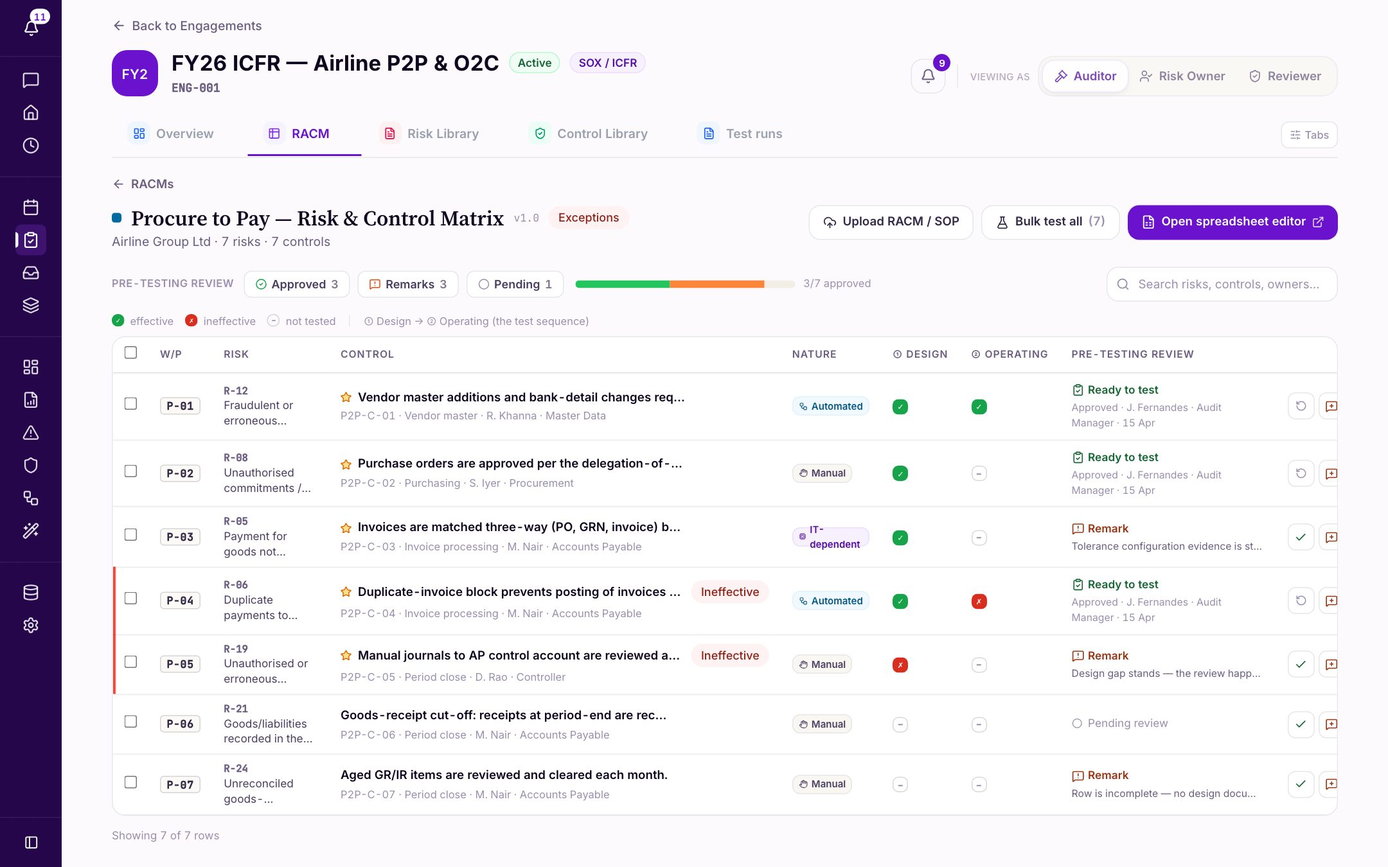
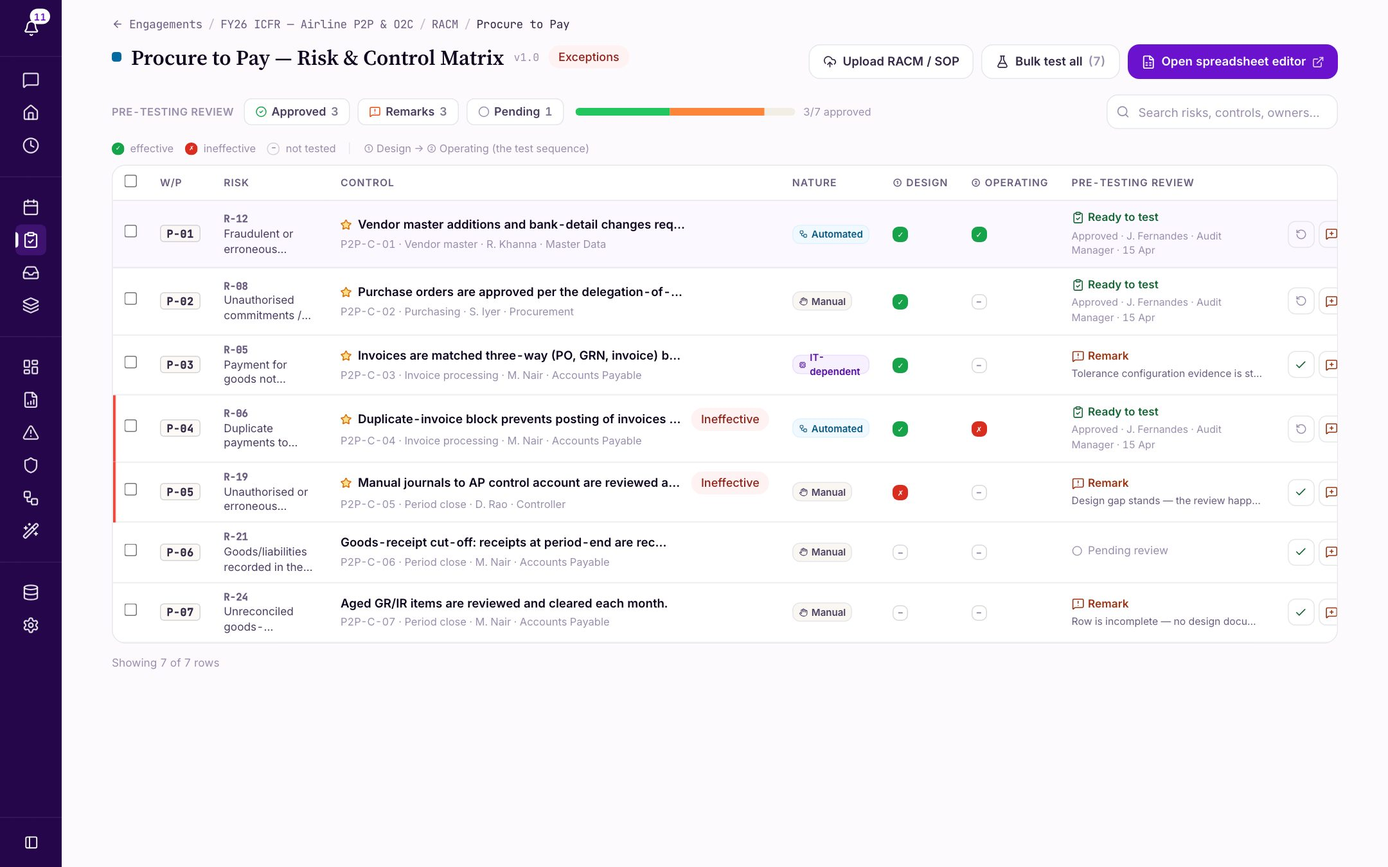
docs(PRD): document the engagement creation flow, add a Notion exporter
Work in progress from before the UI pass, committed as found.

§5.1 grows from "the portfolio" to cover creating an engagement: the four-step
drawer, what each step gates on, and the SOX-specific step 2 where the three
thresholds drive a live severity ladder. Two new captures back it (wizard steps
1 and 2); three existing shots refreshed against the current build.

notion-convert.mjs converts body.html to Notion-flavored Markdown. Text-only:
Notion needs public image URLs, which the local JPGs aren't, so screenshots and
flowcharts become linked references to the live artifact.

diff --git a/docs/prd-sox-icfr/body.html b/docs/prd-sox-icfr/body.html
@@ -6,7 +6,6 @@
     <div class="mid">
       <div class="badges"><span class="badge">Product Requirements Document</span><span class="badge">v1.1</span><span class="badge">Basis: BRD v1.0</span></div>
       <h1>SOX / ICFR Engagement Management</h1>
-      <p class="sub">From creating a SOX / ICFR engagement and setting materiality ground rules, to testing design &amp; operating effectiveness, to closing exceptions — the build specification for bringing this capability to the irame.ai audit platform. The feature does not exist in the product today; the working prototype demonstrates the target experience, and every screenshot is a live capture of it. Anything the prototype adds beyond the BRD is highlighted in amber.</p>
     </div>
   </div>
 
@@ -41,7 +40,7 @@
       <a href="#s3"><span>3 — Use cases</span><span class="n">§3</span></a>
       <a href="#s4"><span>4 — User journey</span><span class="n">§4</span></a>
       <a href="#s51"><span>5 — The end-to-end journey (live screens)</span><span class="n">§5</span></a>
-      <a class="sub" href="#s51"><span>5.1 Engagement Library — the portfolio</span><span class="n">§5.1</span></a>
+      <a class="sub" href="#s51"><span>5.1 Engagement Library — portfolio &amp; the creation flow</span><span class="n">§5.1</span></a>
       <a class="sub" href="#s52"><span>5.2 SOX workspace — Overview &amp; sign-off</span><span class="n">§5.2</span></a>
       <a class="sub" href="#s53"><span>5.3 The To-do bell</span><span class="n">§5.3</span></a>
       <a class="sub" href="#s54"><span>5.4 RACM — pre-testing review</span><span class="n">§5.4</span></a>
@@ -261,7 +260,7 @@
   <!-- ═════════ 5.1 ═════════ -->
   <section class="page" id="s51">
     <p class="eyebrow">Section 5 · The end-to-end journey</p>
-    <h2 class="serif">5.1 — Engagement Library: the portfolio</h2>
+    <h2 class="serif">5.1 — Engagement Library: the portfolio &amp; creating an engagement</h2>
     <p class="lede">SOX / ICFR engagements live in the same library as everything else — filter the list by type and the three ICFR engagements appear with their health and open findings.</p>
     <div class="shot"><div class="chrome"><i></i><i></i><i></i><span>Engagements → Engagement Library → All Engagements (filtered to SOX / ICFR)</span></div><img src="@@IMG:00-engagement-library@@" alt="Engagement Library filtered to SOX / ICFR showing three engagements with health bars and open findings" /></div>
     <p class="caption">Engagement Library — the SOX / ICFR filter shows FY26 ICFR (75% effective, 3 open), O2C (89%), and a planned R2R engagement.</p>
@@ -270,7 +269,23 @@
       <ol>
         <li><b>One portfolio</b> — SOX engagements list beside Compliance, Internal Audit and Automation, each with a health bar (controls effective) and open-findings count.</li>
         <li><b>Type filter</b> — the "SOX / ICFR" filter narrows the list; each card carries code, owner, period, process and framework tags.</li>
-        <li><b>Entry</b> — clicking a card opens that engagement's SOX workspace (§5.2). New Engagement opens the typed creation flow the BRD describes (§3.1–3.3 there): pick SOX / ICFR → identity &amp; period → the materiality ground rules with a live severity ladder → team → review.</li>
+        <li><b>Entry</b> — clicking a card opens that engagement's SOX workspace (§5.2); <i>New Engagement</i> opens the four-step creation flow below.</li>
+      </ol>
+    </div>
+
+    <h3>Creating a SOX engagement — the four-step flow</h3>
+    <p><i>New Engagement</i> opens a drawer over the library — the same flow for every engagement type, which is the BRD's point: SOX is created like everything else, not in a separate tool. Step 2 changes shape with the chosen type; for SOX / ICFR it is the materiality ground rules. The progress bar is clickable backwards; a step ahead stays locked until the current one passes its checks.</p>
+    <div class="shot"><div class="chrome"><i></i><i></i><i></i><span>Engagement Library → New Engagement → Step 1 · Type &amp; basics</span></div><img src="@@IMG:19-wizard-step1@@" alt="Create Engagement drawer, step 1 — SOX / ICFR type tile selected with a check, engagement name, auto-generated code, entity, process P2P, period start and end date pickers" /></div>
+    <p class="caption">Step 1 — Type &amp; basics: pick <b>SOX / ICFR</b>, name the engagement, set entity, process and period. Next stays off until type, name, code and a valid period (end after start) are in.</p>
+    <div class="shot"><div class="chrome"><i></i><i></i><i></i><span>New Engagement → Step 2 · Scope (SOX / ICFR)</span></div><img src="@@IMG:20-wizard-step2@@" alt="Create Engagement drawer, step 2 — SOX scoping and materiality: fixed COSO 2013 / SOX 404(b) framework, key-controls-only toggle, overall materiality, performance materiality and clearly-trivial percentages with computed amounts, and the exception severity ladder computed live beneath" /></div>
+    <p class="caption">Step 2 — Scope: the three thresholds, with the severity ladder <b>computed live</b> beneath as the numbers change — the same ladder that will grade every exception in testing (§5.12, §6).</p>
+    <div class="callout">
+      <span class="c-label">The four steps &amp; their gates</span>
+      <ol>
+        <li><b>Type &amp; basics</b> — engagement type · name · auto-generated code (editable if the team uses its own scheme) · entity · process · period · owner. Gate: type, name and code present; period end after start.</li>
+        <li><b>Scope (SOX / ICFR)</b> — the framework is fixed to COSO 2013 / SOX 404(b); a <b>key-controls-only</b> toggle (default on); overall materiality, with performance materiality and clearly-trivial as % of overall (defaults 75% / 5%; the significant-deficiency band sits at 20%). These are set once here and <b>sealed</b> — changing them later goes through the reasoned, previewed edit of §5.12. <b>Draft with AI</b> can prefill the step from an uploaded engagement letter or prior-year scope; the result is banner-flagged "Drafted by AI — review before continuing".</li>
+        <li><b>Team &amp; timeline</b> — reviewer (required, and <b>must differ from the owner</b> — four-eyes starts at creation), auditors, risk owners; 2–4 dated milestones prefilled from the period (Kickoff · Fieldwork complete · Sign-off) that feed the portfolio timeline.</li>
+        <li><b>Review</b> — everything read back in collapsible sections. <b>Create as Draft</b> parks it in the library; <b>Create &amp; Activate</b> opens it live. Either way, the full configuration is carried onto the engagement.</li>
       </ol>
     </div>
     <div class="callout delta"><span class="c-label">Deviations from the BRD in the creation flow</span>
@@ -330,7 +345,7 @@
     <p class="lede">The Risk &amp; Control Matrix is where the auditor reviews each documented control <b>before testing begins</b> — approving a row means "the control as documented is ready to test", never a testing result.</p>
     <div class="shot"><div class="chrome"><i></i><i></i><i></i><span>SOX workspace → RACM (landing)</span></div><img src="@@IMG:05-racm-landing@@" alt="RACM landing with one card per process showing approval progress and a spreadsheet editor button" /></div>
     <p class="caption">RACM landing — one card per process with its approval progress; "Spreadsheet editor" opens the full matrix in a new tab (marked with an external-link icon).</p>
-    <div class="shot"><div class="chrome"><i></i><i></i><i></i><span>RACM → Procure to Pay (matrix)</span></div><img src="@@IMG:06-racm-matrix@@" alt="RACM matrix with risk and control rows, design and operating tickmarks with a legend, ready-to-test review states and per-row remark actions" /></div>
+    <div class="shot"><div class="chrome"><i></i><i></i><i></i><span>RACM → Procure to Pay (standalone matrix — breadcrumb, no engagement shell)</span></div><img src="@@IMG:06-racm-matrix@@" alt="Standalone RACM matrix page with a breadcrumb trail, risk and control rows, design and operating tickmarks with a legend, ready-to-test review states and per-row remark actions" /></div>
     <p class="caption">The matrix — risk ↔ control rows with a tickmark legend (✓ effective · ✗ ineffective · – not tested) and the ①② test sequence explained inline.</p>
     <div class="callout">
       <span class="c-label">Behaviour &amp; rules</span>
@@ -338,6 +353,7 @@
         <li><b>Row anatomy</b> — risk (with description on hover) · control (ID · sub-process · owner) · ① Design and ② Operating tickmarks · the pre-testing review state.</li>
         <li><b>Review states</b> — <span class="pill ok">Ready to test</span> (approved · by · when) or a <b>remark</b> sent to the risk owner to fix the documentation first. Only the auditor approves; only the auditor sees bulk actions.</li>
         <li><b>Wide by design</b> — the matrix scrolls horizontally rather than clipping; the spreadsheet editor offers the full-screen editing surface.</li>
+        <li><b>The drilled-in matrix stands alone</b> — opening a process leaves the engagement shell: no engagement header, no tabs; a breadcrumb (Engagements / engagement / RACM / process) carries the context and every step back up — the same pattern as the control page.</li>
       </ol>
     </div>
     <div class="callout delta"><span class="c-label">Beyond the BRD</span><p style="margin:0">The RACM tab is new. The BRD defines RACM only as a glossary term; the prototype gives it a surface — and a job: the pre-testing review ("ready to test") that catches documentation gaps before any testing effort is spent.</p></div>
@@ -354,12 +370,50 @@
     <div class="callout">
       <span class="c-label">Behaviour &amp; rules</span>
       <ol>
-        <li><b>Heatmaps filter</b> — clicking a cell filters the register to that Likelihood × Impact band; the filter pill reads in the same L × I order as the score badges.</li>
+        <li><b>Two filter layers</b> — the toolbar above the maps (search · process · status · an <i>Identified between</i> date window, bounded to the engagement period and defaulting to all of it) scopes <b>both heatmaps and the register together</b>; clicking a heatmap cell then narrows the register alone to that Likelihood × Impact, shown as a clearable chip. The count line stays honest: "Showing n of m risks".</li>
         <li><b>Register row</b> — risk ID · description (full text on hover) · process · inherent and residual scores · "↓ reduced by controls" where testing moved the number · controls as <i>effective / total</i> · status.</li>
         <li><b>Drill-through</b> — a risk opens its mapped controls; a control opens its page (§5.7).</li>
       </ol>
     </div>
-    <div class="callout delta"><span class="c-label">Beyond the BRD</span><p style="margin:0">The Risk Library tab is new — the BRD's journey has no risk view. It answers the question the register alone can't: how far has control testing actually pulled the risk exposure down?</p></div>
+    <p><b>The idea, in one line:</b> <b>inherent</b> is the risk's nature — how often it would bite and how hard <i>if no control existed at all</i> — so it never moves during the year. <b>Residual</b> is what remains after controls, and the product takes a deliberate stance on it: <b>a control that merely exists on paper earns nothing; only a control proven effective in testing moves the number.</b> That is why the two maps sit side by side — the left one never changes, the right one moves as testing progresses, and the gap between them is exactly what the testing effort has bought.</p>
+    <div class="callout">
+      <span class="c-label">How the scores work</span>
+      <ol>
+        <li><b>One row per risk</b> — every unique risk in the RACM becomes one register row, with the controls that answer it bundled onto it and the date it was <b>identified</b> on the row (this is what the date filter reads). The Risk Library has no data entry of its own; it reads the engagement.</li>
+        <li><b>A score is Likelihood × Impact</b> — each rated 1 to 5 (Rare → Almost certain, Minimal → Severe), so scores run 1–25. Every badge shows its working, e.g. <b>12</b> = L4 × I3.</li>
+        <li><b>Inherent is set with the engagement</b> — and a risk answered by a <b>key control</b> never rates below Moderate impact. <b>Residual starts equal to inherent</b>: a brand-new engagement shows two identical maps, and they separate only as test conclusions land — by the table below.</li>
+      </ol>
+    </div>
+
+    <p style="margin:0.9rem 0 0.35rem"><b>How residual moves.</b> Look at where the risk's mapped controls stand — that one fact fixes both the score movement and the status chip:</p>
+    <div class="table-scroll"><table>
+      <tr><th style="width:26%">Where the risk's controls stand</th><th style="width:26%">What residual does</th><th>Why</th><th style="width:13%">Status</th></tr>
+      <tr><td>Nothing tested yet</td><td>Stays exactly at inherent.</td><td>No evidence yet — no credit.</td><td><span class="pill neutral">Untested</span></td></tr>
+      <tr><td>Some testing done, nothing failed</td><td>Likelihood drops 1.</td><td>Partial credit for progress — the risk fires less often, but its size hasn't been earned down yet.</td><td><span class="pill info">In testing</span></td></tr>
+      <tr><td>Every mapped control concluded effective</td><td>Likelihood drops 2, impact drops 1 — never below 1.</td><td>The full reduction, with a floor: no score ever reaches zero — some residual always remains.</td><td><span class="pill ok">Mitigated</span></td></tr>
+      <tr><td><b>Any control ineffective</b> — an exception is open</td><td><b>No relief at all</b> — holds at inherent until the retest passes and the exception closes.</td><td>One failed control blocks the whole risk's relief, whatever the other controls did — the same "caps, never clears" stance as §6.</td><td><span class="pill mw">Exception</span></td></tr>
+    </table></div>
+
+    <div class="callout">
+      <span class="c-label">Worked example — one risk through the engagement</span>
+      <ol>
+        <li>R-04 enters the year at inherent <b>L4 × I4 = 16 — Critical</b>: a red cell on the left map, top of the register. Two controls answer it.</li>
+        <li>The first control concludes effective → residual <b>L3 × I4 = 12 — High</b>. Status: In testing.</li>
+        <li>The second concludes effective too → residual <b>L2 × I3 = 6 — Moderate</b>; the row now carries <i>"↓ reduced by controls"</i>. Status: Mitigated.</li>
+        <li>A later retest finds the second control failing → an exception opens and residual snaps <b>straight back to 16</b>. R-04 returns to the top of the register — and stays there until the retest passes and the exception closes.</li>
+      </ol>
+    </div>
+
+    <p style="margin:0.9rem 0 0.35rem"><b>What the colours mean.</b> One band scale colours both the score badges and the heatmap cells (a cell shows the count of risks sitting at exactly that Likelihood × Impact):</p>
+    <div class="table-scroll"><table>
+      <tr><th style="width:30%">Score (L × I)</th><th>Band</th></tr>
+      <tr><td>15 – 25</td><td><span class="pill mw">Critical</span></td></tr>
+      <tr><td>10 – 14</td><td><span class="pill sd">High</span></td></tr>
+      <tr><td>5 – 9</td><td><span class="pill warn">Moderate</span></td></tr>
+      <tr><td>1 – 4</td><td><span class="pill ok">Low</span></td></tr>
+    </table></div>
+    <p>The register sorts by residual score, highest first — the top of the list is always what still hurts.</p>
+    <div class="callout delta"><span class="c-label">Beyond the BRD</span><p style="margin:0">The Risk Library tab is new — the BRD's journey has no risk view. It answers the question the register alone can't: how far has control testing actually pulled the risk exposure down?</p><p style="margin:0.4rem 0 0">One honest prototype note: the <b>inherent</b> ratings and the <b>identified</b> dates are seeded with the engagement's demo data — there is no assessment-entry screen yet. In production both come from the risk assessment on the RACM. The residual movement rules above are the specification either way.</p></div>
     <div class="pagefoot"><span>irame.ai — SOX / ICFR Engagement Management</span><span>§5.5</span></div>
   </section>
 
@@ -659,27 +713,28 @@
   <section class="page" id="s9">
     <p class="eyebrow">Section 9</p>
     <h2 class="serif">Functional requirements &amp; acceptance criteria</h2>
-    <p class="lede" style="font-size:0.8125rem">The <b>Basis</b> column traces each requirement to the BRD's own FR list — anything marked <span class="pill warn">Beyond BRD</span> is a prototype addition needing its own approval.</p>
+    <p class="lede" style="font-size:0.8125rem">The <b>Status</b> column shows where each requirement stands today: <span class="pill ok">Built</span> — working end-to-end in the prototype — or <span class="pill neutral">Planned</span> — specified here, to be built.</p>
     <div class="table-scroll"><table>
-      <tr><th style="width:8%">ID</th><th style="width:38%">Requirement</th><th>Acceptance criteria</th><th style="width:13%">Basis</th></tr>
-      <tr><td>FR-1</td><td>SOX / ICFR is a selectable engagement type; engagements list in the shared portfolio.</td><td>Type tile in creation; SOX engagements appear with health % and open findings; multiple SOX engagements coexist with fully separate state.</td><td><span class="pill neutral">BRD FR-1,2,4</span></td></tr>
-      <tr><td>FR-2</td><td>Creation captures identity, period, scope and materiality with validation gates.</td><td>Next gated per step; materiality &gt; 0, performance ∈ (0,100], CTT ∈ [0,100); reviewer required and ≠ owner; ≥ 2 dated milestones. Four steps; no audit-committee step.</td><td><span class="pill neutral">BRD FR-3</span> <span class="pill warn">deviates</span></td></tr>
-      <tr><td>FR-3</td><td>The workspace header matches the platform engagement pages.</td><td>Back to Engagements · initials tile · name · Active/Concluded pill · SOX/ICFR pill · code; tabs beneath; header and role switch absent inside a control page.</td><td><span class="pill warn">Beyond BRD</span></td></tr>
-      <tr><td>FR-4</td><td>Overview folds the year-end checklist and engagement sign-off into one box.</td><td>One row per outstanding item, each deep-linking; the sign-off block is the final step; the open-exceptions count appears exactly once; concluded state shows the signed summary.</td><td><span class="pill warn">Beyond BRD</span></td></tr>
-      <tr><td>FR-5</td><td>Engagement sign-off is gated, honest, and two-person.</td><td>Locked until every control is concluded and countersigned; preparer first, reviewer concludes; attest confirms on both; open MW flips the wording to "not effective" — never blocks.</td><td><span class="pill warn">Beyond BRD</span></td></tr>
-      <tr><td>FR-6</td><td>The Control Library reads as a KPI rail + register.</td><td>Five tiles (owner persona re-worded); honest Status filter labels; cards/table with per-track status and court; "Showing n of m".</td><td><span class="pill neutral">BRD FR-5</span> <span class="pill warn">+ rail</span></td></tr>
-      <tr><td>FR-7</td><td>Test of Design gates Operating Effectiveness.</td><td>② locked with the reason until ① concludes effective; documents tracked per provider; considerations validated per row; overrides demand recorded rationale.</td><td><span class="pill neutral">BRD FR-6</span></td></tr>
-      <tr><td>FR-8</td><td>IPE validation gates sampling.</td><td>Draw disabled until the three-check attestation (completeness · accuracy · parameters) is stamped with name + time; the trail records it.</td><td><span class="pill warn">Beyond BRD</span></td></tr>
-      <tr><td>FR-9</td><td>Per-attribute evidence with a named conclusion of record.</td><td>AI validation / mapped workflow / self-attestation per attribute; the attribute names its conclusion; disagreeing stale verdicts read "superseded"; sample status is a compact count.</td><td><span class="pill neutral">BRD FR-7</span> <span class="pill warn">+ record</span></td></tr>
-      <tr><td>FR-10</td><td>Failure handling is never silent.</td><td>A failed attribute prompts extend-the-sample; ineffective conclusions raise exceptions sized on the ladder; failed ITGC invalidates test-of-one.</td><td><span class="pill warn">Beyond BRD</span></td></tr>
-      <tr><td>FR-11</td><td>The working paper preview equals the export, and carries the per-paper sign-off.</td><td>Blocks and order identical; dates identical on screen and in file; sign/countersign attest-confirmed; person-based four-eyes; open notes block countersign with the reason.</td><td><span class="pill neutral">BRD FR-10</span> <span class="pill warn">+ sign-off</span></td></tr>
-      <tr><td>FR-12</td><td>Review notes cycle.</td><td>Reviewer raises; auditor resolves with a response; reviewer verifies &amp; closes or reopens; open notes block the paper's countersign.</td><td><span class="pill warn">Beyond BRD</span></td></tr>
-      <tr><td>FR-13</td><td>Exception lifecycle with live severity and four-eyes close.</td><td>Five stages incl. Awaiting reviewer; evidence-gated retest submission; reviewer close attest-confirmed and person-checked; reopen with reason returns to Remediation.</td><td><span class="pill neutral">BRD FR-9</span> <span class="pill warn">+ stage 5</span></td></tr>
-      <tr><td>FR-14</td><td>Ground rules are sealed.</td><td>Threshold edits: draft → reason → regrade preview → visible history; MW indicators force MW; compensating caps, never clears.</td><td><span class="pill neutral">BRD FR-8</span> <span class="pill warn">+ sealing</span></td></tr>
-      <tr><td>FR-15</td><td>The To-do bell is a per-persona live worklist.</td><td>Items recompute from state; each row = event + next step; owner wording says attest &amp; evidence; count badge on the bell.</td><td><span class="pill warn">Beyond BRD</span></td></tr>
-      <tr><td>FR-16</td><td>Role views are scoped surfaces, not hidden buttons.</td><td>Owner: two tabs, person-scoped lists, no engagement-wide data; Reviewer: the four-queue desk; persona fixed inside a control page.</td><td><span class="pill neutral">BRD FR-11</span> <span class="pill warn">+ portals</span></td></tr>
-      <tr><td>FR-17</td><td>Test runs log every execution.</td><td>Bulk/control/workflow/AI runs with actor + hat + time; Type + date filters with a matched count.</td><td><span class="pill warn">Beyond BRD</span></td></tr>
-      <tr><td>FR-18</td><td>Roll-forward and working-paper export.</td><td>Roll-forward confirm explains the one-way reset (design carries; manual/IT-dependent operating resets; automated keeps); Excel export at engagement and control level.</td><td><span class="pill neutral">BRD FR-12</span></td></tr>
+      <tr><th style="width:8%">ID</th><th style="width:38%">Requirement</th><th>Acceptance criteria</th><th style="width:11%">Status</th></tr>
+      <tr><td>FR-1</td><td>SOX / ICFR is a selectable engagement type; engagements list in the shared portfolio.</td><td>Type tile in creation; SOX engagements appear with health % and open findings; multiple SOX engagements coexist with fully separate state.</td><td><span class="pill ok">Built</span></td></tr>
+      <tr><td>FR-2</td><td>Creation captures identity, period, scope and materiality with validation gates.</td><td>Next gated per step; materiality &gt; 0, performance ∈ (0,100], CTT ∈ [0,100); the severity ladder previews live from the thresholds; reviewer required and ≠ owner; ≥ 2 dated milestones; Create as Draft or Create &amp; Activate. Four steps; no audit-committee step.</td><td><span class="pill ok">Built</span></td></tr>
+      <tr><td>FR-3</td><td>The workspace header matches the platform engagement pages.</td><td>Back to Engagements · initials tile · name · Active/Concluded pill · SOX/ICFR pill · code; tabs beneath; header and role switch absent inside a control page and the drilled-in RACM matrix — there a breadcrumb carries every step back up.</td><td><span class="pill ok">Built</span></td></tr>
+      <tr><td>FR-4</td><td>Overview folds the year-end checklist and engagement sign-off into one box.</td><td>One row per outstanding item, each deep-linking; the sign-off block is the final step; the open-exceptions count appears exactly once; concluded state shows the signed summary.</td><td><span class="pill ok">Built</span></td></tr>
+      <tr><td>FR-5</td><td>Engagement sign-off is gated, honest, and two-person.</td><td>Locked until every control is concluded and countersigned; preparer first, reviewer concludes; attest confirms on both; open MW flips the wording to "not effective" — never blocks.</td><td><span class="pill ok">Built</span></td></tr>
+      <tr><td>FR-6</td><td>The Control Library reads as a KPI rail + register.</td><td>Five tiles (owner persona re-worded); honest Status filter labels; cards/table with per-track status and court; "Showing n of m".</td><td><span class="pill ok">Built</span></td></tr>
+      <tr><td>FR-7</td><td>Test of Design gates Operating Effectiveness.</td><td>② locked with the reason until ① concludes effective; documents tracked per provider; considerations validated per row; overrides demand recorded rationale.</td><td><span class="pill ok">Built</span></td></tr>
+      <tr><td>FR-8</td><td>IPE validation gates sampling.</td><td>Draw disabled until the three-check attestation (completeness · accuracy · parameters) is stamped with name + time; the trail records it.</td><td><span class="pill ok">Built</span></td></tr>
+      <tr><td>FR-9</td><td>Per-attribute evidence with a named conclusion of record.</td><td>AI validation / mapped workflow / self-attestation per attribute; the attribute names its conclusion; disagreeing stale verdicts read "superseded"; sample status is a compact count.</td><td><span class="pill ok">Built</span></td></tr>
+      <tr><td>FR-10</td><td>Failure handling is never silent.</td><td>A failed attribute prompts extend-the-sample; ineffective conclusions raise exceptions sized on the ladder; failed ITGC invalidates test-of-one.</td><td><span class="pill ok">Built</span></td></tr>
+      <tr><td>FR-11</td><td>The working paper preview equals the export, and carries the per-paper sign-off.</td><td>Blocks and order identical; dates identical on screen and in file; sign/countersign attest-confirmed; person-based four-eyes; open notes block countersign with the reason.</td><td><span class="pill ok">Built</span></td></tr>
+      <tr><td>FR-12</td><td>Review notes cycle.</td><td>Reviewer raises; auditor resolves with a response; reviewer verifies &amp; closes or reopens; open notes block the paper's countersign.</td><td><span class="pill ok">Built</span></td></tr>
+      <tr><td>FR-13</td><td>Exception lifecycle with live severity and four-eyes close.</td><td>Five stages incl. Awaiting reviewer; evidence-gated retest submission; reviewer close attest-confirmed and person-checked; reopen with reason returns to Remediation.</td><td><span class="pill ok">Built</span></td></tr>
+      <tr><td>FR-14</td><td>Ground rules are sealed.</td><td>Threshold edits: draft → reason → regrade preview → visible history; MW indicators force MW; compensating caps, never clears.</td><td><span class="pill ok">Built</span></td></tr>
+      <tr><td>FR-15</td><td>The To-do bell is a per-persona live worklist.</td><td>Items recompute from state; each row = event + next step; owner wording says attest &amp; evidence; count badge on the bell.</td><td><span class="pill ok">Built</span></td></tr>
+      <tr><td>FR-16</td><td>Role views are scoped surfaces, not hidden buttons.</td><td>Owner: two tabs, person-scoped lists, no engagement-wide data; Reviewer: the four-queue desk; persona fixed inside a control page.</td><td><span class="pill ok">Built</span></td></tr>
+      <tr><td>FR-17</td><td>Test runs log every execution.</td><td>Bulk/control/workflow/AI runs with actor + hat + time; Type + date filters with a matched count.</td><td><span class="pill ok">Built</span></td></tr>
+      <tr><td>FR-18</td><td>Roll-forward and working-paper export.</td><td>Roll-forward confirm explains the one-way reset (design carries; manual/IT-dependent operating resets; automated keeps); Excel export at engagement and control level.</td><td><span class="pill ok">Built</span></td></tr>
+      <tr><td>FR-19</td><td>Risk Library scores move with test results, by rule.</td><td>One row per RACM risk, carrying its identified date; residual moves only per the §5.5 table — full drop when all controls prove effective, partial credit for progress, <b>no relief while an exception is open</b>; cells band by L × I; register sorts residual-first; toolbar filters (search · process · status · identified-date window bounded to the period) scope heatmaps + register together, a cell click narrows the register only.</td><td><span class="pill ok">Built</span></td></tr>
     </table></div>
     <div class="pagefoot"><span>irame.ai — SOX / ICFR Engagement Management</span><span>§9</span></div>
   </section>
